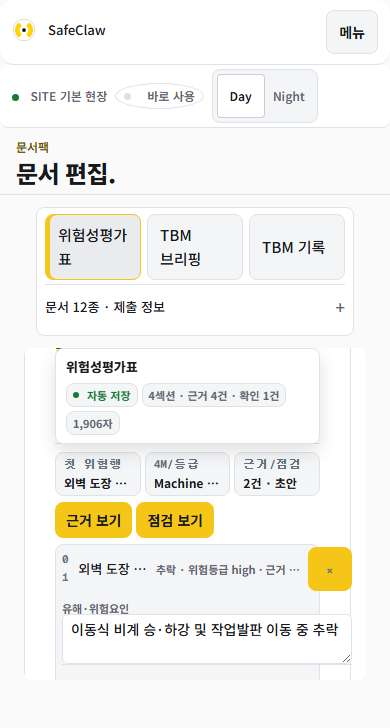
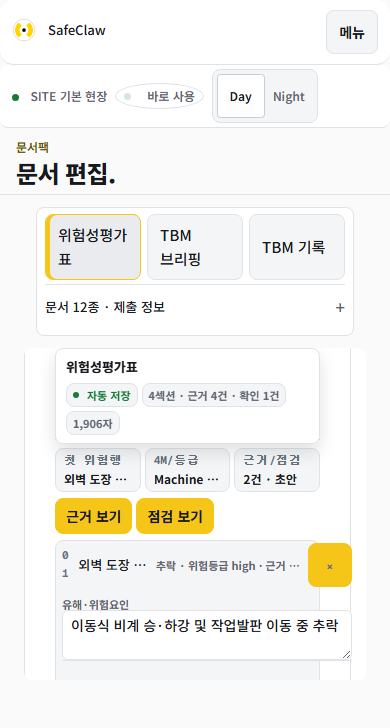
chore: record bounded documents row geometry

diff --git a/evaluation/documents-cockpit-workbench-geometry-2026-07-22/report.md b/evaluation/documents-cockpit-workbench-geometry-2026-07-22/report.md
@@ -1,16 +1,16 @@
 # Documents Cockpit Workbench Geometry
 
-Checked at: 2026-07-24T14:20:40.872Z
+Checked at: 2026-07-24T15:47:37.585Z
 
-Base URL: `https://www.safeclaw.kr`
+Base URL: `http://127.0.0.1:3078`
 
-Source HEAD: `fdf0ac38da3bceb9ed70cc4f662923704279193e`
+Source HEAD: `1b6b87801feecfe8d942869b1c9767d313e97dc6`
 
-Production `/api/build-info`: `fdf0ac38da3bceb9ed70cc4f662923704279193e`
+Production `/api/build-info`: `unknown`
 
-Source HEAD matches production: `true`
+Source HEAD matches production: `false`
 
-Verdict: `PASS_LIVE_PRODUCTION_DOCUMENTS_WORKBENCH`
+Verdict: `PASS_CURRENT_SOURCE_LOCAL_PRODUCTION_DOCUMENTS_WORKBENCH`
 
 Route split alone accepted as fix: `false`
 
@@ -20,10 +20,10 @@ Sibling verification first saw `display:block` / one-column geometry from a stal
 
 ## Geometry
 
-| Viewport | Overall | Body height | OverflowX | Workbench display | Columns | Column template | Launcher top-bottom | Editor top-bottom | Launcher right | Editor left | Inner nav display/width | Selected pane/editor width | Visible selected editors | Visible full bodies | First action top-bottom | Editor client/scroll (ratio) | Core buttons | Details open |
-| --- | --- | --- | --- | --- | --- | --- | --- | --- | --- | --- | --- | --- | --- | --- | --- | --- | --- | --- |
-| 1440x723 | PASS | 723 | false | grid | 2 | 252px 912px | 205-386 | 205-653 | 504 | 512 | none/0 | 897/912 | 1 | 0 | 277-321 | 448/1035 (2.31) | 3 | false |
-| 390x723 | PASS | 728 | false | grid | 1 | 366px | 207-336 | 348-680 | 354 | 24 | none/0 | 327/342 | 1 | 0 | 502-538 | 332/909 (2.74) | 3 | false |
+| Viewport | Overall | Body height | OverflowX | Workbench display | Columns | Column template | Launcher top-bottom | Editor top-bottom | Launcher right | Editor left | Inner nav display/width | Selected pane/editor width | Visible selected editors | Visible full bodies | Risk selectors/mounted panels | First action top-bottom | Editor client/scroll (ratio) | Core buttons | Details open |
+| --- | --- | --- | --- | --- | --- | --- | --- | --- | --- | --- | --- | --- | --- | --- | --- | --- | --- | --- | --- |
+| 1440x723 | PASS | 723 | false | grid | 2 | 252px 912px | 205-386 | 205-653 | 504 | 512 | none/0 | 897/912 | 1 | 0 | 3/1 | 273-317 | 448/897 (2) | 3 | false |
+| 390x723 | PASS | 728 | false | grid | 1 | 366px | 207-336 | 348-680 | 354 | 24 | none/0 | 327/342 | 1 | 0 | 3/1 | 498-534 | 332/740 (2.23) | 3 | false |
 
 ## Product Boundary
 
